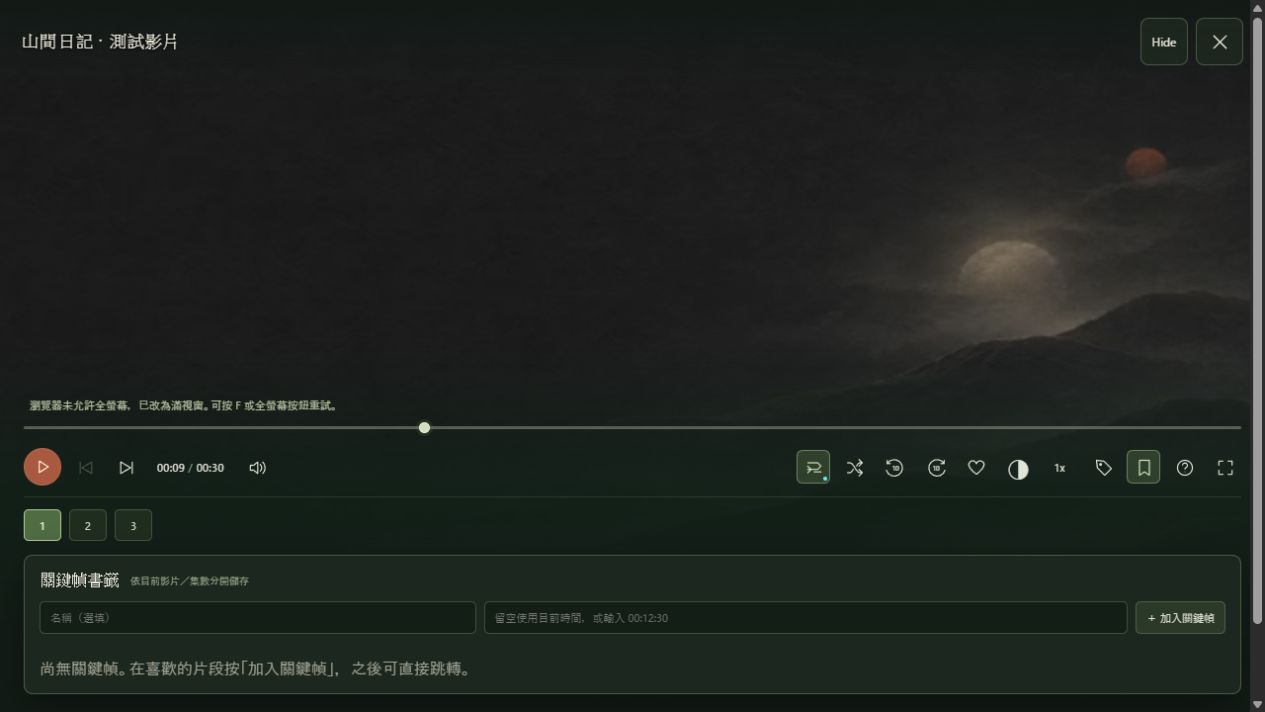
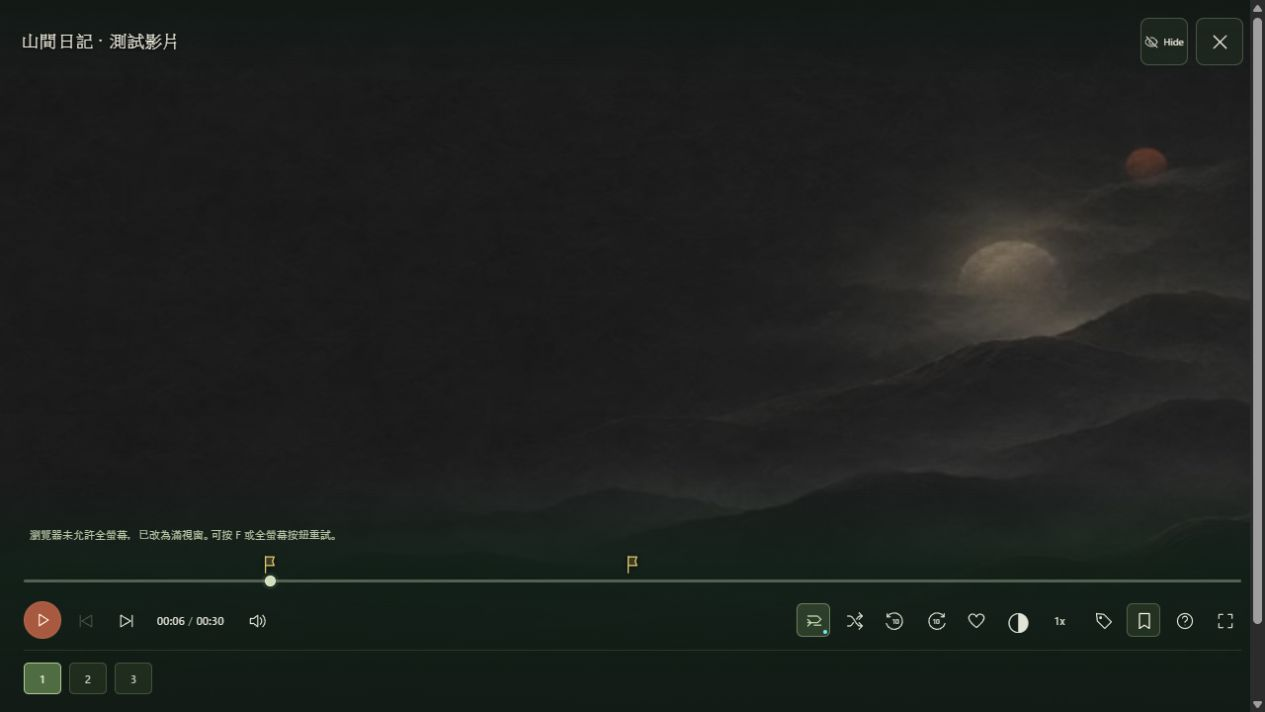
feat: add direct timeline flags and paused deletion v1.5.0

diff --git a/index.html b/index.html
@@ -40,12 +40,12 @@ body.boss-mode img,body.boss-mode video,body.boss-mode #timelinePreview,body.bos
 .channelFooter{display:flex;justify-content:flex-end;margin-top:18px}.channelToggle{width:28px;height:28px;padding:5px;background:transparent;border:1px solid transparent;color:#697269;opacity:.65}.channelToggle:hover{opacity:1;border-color:#59675a;background:#263128}.channelToggle svg{width:16px;height:16px;fill:none;stroke:currentColor;stroke-width:1.6;stroke-linecap:round;stroke-linejoin:round}.channelToggle.active{color:#89c9ad;opacity:1;background:#20372c;border-color:#547864}
 </style><link rel="stylesheet" href="/assets/studio-layout.css">
 <header><div><div class="brand"><img src="/assets/camellia-emblem.png" alt="">映室 <span>LOCAL CINEMA</span></div><div class="sub">2026 · by BitingBox Studio</div></div><div class="headerActions"><button id="sourceGroupToggle" class="sourceGroupToggle" aria-haspopup="dialog" title="選擇片源群組"><img id="sourceGroupAvatar" alt=""><span id="sourceGroupName">預設片源</span></button><button id="shortToggle" class="shortToggle" aria-pressed="false" title="開啟Short直式看片面板" aria-label="Short"></button><button id="homeHide" title="暫停、靜音並隱藏影片與標題">Hide</button></div></header>
-<aside id="studioSidebar" class="studioSidebar"><nav aria-label="主要導覽"><button id="homeNav" class="nav-active"></button><div id="libraryNavSlots"></div><button id="shortNav"></button></nav><div class="sidebarBottom"><button id="groupNav"></button><button id="guideNav"></button><div class="sidebarCredit">PRIVATE LIBRARY<span>Local streaming · v1.4.1</span></div></div></aside>
+<aside id="studioSidebar" class="studioSidebar"><nav aria-label="主要導覽"><button id="homeNav" class="nav-active"></button><div id="libraryNavSlots"></div><button id="shortNav"></button></nav><div class="sidebarBottom"><button id="groupNav"></button><button id="guideNav"></button><div class="sidebarCredit">PRIVATE LIBRARY<span>Local streaming · v1.5.0</span></div></div></aside>
 <section id="hero"><img id="heroImg" alt="" draggable="false"><div class="heroText"><div class="eyebrow">PICK SOMETHING UNEXPECTED · <span id="bannerIntervalLabel">每 5 秒推薦</span></div><h1 id="heroTitle">你的私人影院</h1><div class="muted" id="heroMeta">請從後台加入影片來源，並啟動掃描。</div><div class="heroButtons"><button class="primary" id="heroPlay">▶ 立即播放</button><button id="heroPrevious" aria-label="上一張Banner">← 上一張</button><button id="heroNext" aria-label="下一張Banner">下一張 →</button></div><div class="bannerIntervals"><span>自動換片</span><div id="bannerIntervals" class="intervalChoices" aria-label="Banner自動換片間隔"></div></div></div></section>
 <main id="libraryMain"><div class="filters collectionActions"><button class="primary" id="allView">全部影片</button><button id="favView">♥ 我的最愛</button><button id="historyView">◷ 觀看記錄</button><button id="randomAll">⚄ 隨機播放</button><button id="randomFav">⚄ 隨機最愛</button><button id="randomTag">⚄ 依標籤抽片</button></div><div class="sectionTop"><h2><span id="viewTitle">所有影片</span> <small class="muted" id="count"></small></h2><span class="muted" id="scanState"></span></div><div class="filters catalogFilters"><input id="search" type="search" placeholder="搜尋影片名稱或標籤…" aria-label="搜尋"><details id="tagFilterDetails"><summary>標籤篩選 <span id="tagFilterSummary">全部</span></summary><div class="tagFilterPanel"><fieldset><legend>包含標籤（符合任一）</legend><div id="includeTagChoices" class="filterTagChoices"></div><button id="clearIncludeTags" type="button">清空包含</button></fieldset><fieldset class="excludeField"><legend>排除標籤（含任一即排除）</legend><div id="excludeTagChoices" class="filterTagChoices"></div><button id="clearExcludeTags" type="button">清空排除</button></fieldset><p>可複選。未選包含表示不限制；同時選入兩組時，排除條件優先。</p></div></details><button id="newTag">＋ 自訂分類</button><label>更新自 <input id="from" type="date"></label><label>至 <input id="to" type="date"></label><select id="sort" aria-label="排序"><option value="random" selected>亂數排序（不重複）</option><option value="watched">最近觀看</option><option value="new">更新：新到舊</option><option value="old">更新：舊到新</option><option value="az">名稱：A → Z</option><option value="za">名稱：Z → A</option></select><button id="shuffle">重新洗牌</button><label>每頁 <select id="pageSize" aria-label="每頁筆數"><option>12</option><option selected>24</option><option>48</option><option>96</option></select> 部</label><button id="clear">清除篩選</button></div><nav class="pagination" id="paginationTop" aria-label="影片分頁（上方）"></nav><div id="grid" class="grid"></div><nav class="pagination" id="paginationBottom" aria-label="影片分頁（下方）"></nav></main>
-<dialog id="modal"><div id="playerStage"><video id="player" tabindex="0" disablepictureinpicture playsinline preload="metadata" draggable="false"></video><div class="privacy-glass" aria-hidden="true"></div><div id="scrubHUD" hidden></div><aside id="episodePreview" hidden aria-label="選集影片預覽"><video id="episodePreviewVideo" muted playsinline loop preload="metadata"></video><div class="privacy-glass previewGlass" aria-hidden="true"></div><h4 id="episodePreviewTitle"></h4><span id="episodePreviewStatus" role="status"></span></aside><div id="playerOverlay"><div id="playerHead"><h2 id="playerTitle"></h2><div class="headActions"><button id="bossButton" title="暫停、靜音並隱藏影片與標題">Hide</button><button id="close" aria-label="關閉播放器">✕</button></div></div><div class="playerBottom"><div id="fullscreenStatus" role="status" aria-live="polite"></div><div id="error" role="status"></div><div class="compatTools"><button id="convertPlayback" hidden>建立相容播放檔</button></div><div id="playbackModeNotice" role="status" aria-live="polite"></div><div class="seekRow"><div id="timelinePreview" hidden><video id="timelinePreviewVideo" muted playsinline preload="metadata"></video><div class="privacy-glass previewGlass" aria-hidden="true"></div><span id="timelinePreviewTime"></span></div><input id="playerSeek" aria-label="播放時間軸" type="range" min="0" max="100" step="0.01" value="0" disabled></div><div class="playerTools"><div class="controlsLeft"><button id="playPause" aria-label="播放／暫停" title="播放／暫停（空白鍵）"></button><button id="prevEpisode" aria-label="上一集" title="上一集"></button><button id="nextEpisode" aria-label="下一集" title="下一集"></button><span class="playbackClock"><span id="currentTime">00:00</span><span class="clockDivider"> / </span><span id="durationTime">00:00</span></span><div class="controlMenu volumeMenu"><button id="muteToggle" aria-label="靜音切換" title="音量／靜音（M）"></button><div class="controlPopup volumePopup"><output id="volumeValue">100</output><input id="volume" aria-label="音量" type="range" min="0" max="1" step=".01" value="1"></div></div></div><div class="controlsRight"><button id="autoSeries" aria-pressed="false" aria-label="自動續集" title="自動續集"></button><button id="autoRandom" aria-pressed="false" aria-label="隨機片單" title="隨機片單"></button><button id="back" title="倒轉10秒" aria-label="倒轉10秒"></button><button id="forward" title="快進10秒" aria-label="快進10秒"></button><button id="favorite" title="加入我的最愛" aria-label="加入我的最愛"></button><select id="episode" aria-label="選集" hidden></select><button id="brightnessToggle" title="亮度：一般" aria-label="切換亮度">◑</button><div class="controlMenu speedMenu"><button id="speedToggle" aria-haspopup="menu" aria-label="播放倍速" title="播放倍速">1x</button><div class="controlPopup speedPopup" id="speedChoices" role="menu" aria-label="倍速選單"></div></div><select id="speed" hidden aria-label="播放倍速"><option>0.25</option><option>0.5</option><option>0.75</option><option selected>1</option><option>1.25</option><option>1.5</option><option>1.75</option><option>2</option><option>3</option><option>4</option></select><button id="quickTags" aria-label="快速設定Tag" title="快速設定Tag"></button><button id="keyframeToggle" aria-expanded="false" aria-controls="keyframePanel" aria-label="關鍵幀" title="關鍵幀"></button><button id="helpToggle" aria-expanded="false" aria-controls="playerHelp" aria-label="操作說明" title="操作說明"></button><button id="fullscreen" aria-label="全螢幕" title="全螢幕（F）"></button></div></div><nav id="episodeButtons" aria-label="快速選集"></nav><section hidden id="keyframePanel" aria-label="關鍵幀書籤"><div class="keyframeHeader"><h3>關鍵幀書籤</h3><span class="muted">依目前影片／集數分開儲存</span></div><div class="keyframeForm"><input id="keyframeName" aria-label="關鍵幀名稱" placeholder="名稱（選填）" maxlength="120"><input id="keyframeTime" aria-label="關鍵幀時間" placeholder="留空使用目前時間，或輸入 00:12:30"><button id="addKeyframe">＋ 加入關鍵幀</button></div><div id="keyframeStatus" role="status" aria-live="polite"></div><div id="keyframeRail" aria-label="關鍵幀時間軸"></div><div id="keyframeList"></div></section><section class="help" id="playerHelp" aria-label="播放器操作說明" hidden><div class="helpHeading"><h3>鍵盤快捷鍵</h3><button id="closeHelp" aria-label="收起操作說明">收起</button></div><div class="shortcutColumns"><div><div class="shortcutRow"><span>音量調整</span><span><kbd>↑</kbd><i>/</i><kbd>↓</kbd></span></div><div class="shortcutRow"><span>倒轉／快進 10 秒</span><span><kbd>←</kbd><i>/</i><kbd>→</kbd></span></div><div class="shortcutRow"><span>倒轉／快進（替代鍵）</span><span><kbd>J</kbd><i>/</i><kbd>L</kbd></span></div><div class="shortcutRow"><span>靜音／取消靜音</span><span><kbd>M</kbd></span></div></div><div><div class="shortcutRow"><span>暫停／播放</span><span><kbd>Space</kbd><i>/</i><kbd>K</kbd></span></div><div class="shortcutRow"><span>降低／提高倍速</span><span><kbd>[</kbd><i>/</i><kbd>]</kbd></span></div><div class="shortcutRow"><span>三段亮度切換</span><span><kbd>−</kbd><i>/</i><kbd>＋</kbd></span></div><div class="shortcutRow"><span>全螢幕／退出</span><span><kbd>F</kbd></span></div></div></div><h4>滑鼠與觸控</h4><div class="gestureGrid"><div><span>調整進度</span><b>按住影片左右拖曳</b></div><div><span>精細調整進度</span><b><kbd>Shift</kbd> ＋ 拖曳</b></div><div><span>調整音量</span><b>滑鼠滾輪</b></div><div><span>倒轉／快進 10 秒</span><b><kbd>Shift</kbd> ＋ 滾輪</b></div><div><span>影片中央雙擊</span><b>切換全螢幕</b></div><div><span>影片左右側雙擊</span><b>倒轉／快進 10 秒</b></div><div><span>時間軸／選集預覽</span><b>停留 0.5 秒</b></div><div><span>手機顯示控件</span><b>點擊影片畫面</b></div></div><p class="helpNote"><kbd>Esc</kbd> 可離開全螢幕／滿視窗，再按可關閉播放器。輸入欄位與選單操作時，優先保留其原有按鍵功能。</p></section></div></div></div></dialog><dialog id="tagDialog"><div class="tagDialogHead"><h3>快速設定 Tag</h3><button id="closeTags">完成</button></div><p id="tagTargetTitle" class="muted"></p><p class="muted">點亮即套用，再點一次移除；自動儲存。</p><div id="tagChoices"></div><div class="newTagRow"><input id="quickTagName" aria-label="新增標籤名稱" placeholder="新增標籤名稱" maxlength="60"><button id="addQuickTag">新增並套用</button></div><div id="tagSaveStatus" role="status"></div></dialog><section id="shortPanel" hidden aria-label="Short直式看片面板"><div class="shortHeader"><div><strong>Short</strong><span id="shortSummary"></span></div><div id="shortIntervals" class="intervalChoices" aria-label="Short自動換片間隔"></div><div class="shortHeaderActions"><button id="shortAudio" title="取消靜音" aria-label="Short取消靜音"></button><button id="shortHide">Hide</button><button id="shortClose" aria-label="關閉Short" title="返回片庫"></button></div></div><div id="shortScroller" tabindex="0" aria-label="上下捲動換片"></div><div class="shortNavigation"><button id="shortPrevious" aria-label="上一支Short" title="上一支">↑</button><button id="shortNext" aria-label="下一支Short" title="下一支">↓</button></div></section><dialog id="sourceGroupDialog"><div class="sourceGroupHeading"><h2>選擇片源群組</h2><button id="closeSourceGroups">完成</button></div><p class="muted">切換最上層片源範圍</p><div id="sourceGroupChoices"></div><div class="channelFooter"><button id="channelVisibilityToggle" class="channelToggle" aria-label="解鎖隱藏頻道" title="解鎖隱藏頻道" aria-pressed="false"></button></div></dialog><section id="bossScreen" hidden><div class="bossCard"><span class="eyebrow">WORKSPACE</span><h1>工作台</h1><p>暫無待辦事項。</p><button id="leaveBoss">返回</button></div></section><dialog id="studioGuide" class="studioGuide"><div class="sourceGroupHeading"><h2>映室使用說明</h2><button id="closeStudioGuide">完成</button></div><p>在後台建立片源群組並加入目錄，啟動後即可由本機或區網觀看。</p><ol><li>點右上角頭像切換片源；右下角鎖頭可解鎖隱藏頻道。</li><li>使用搜尋、日期與包含／排除標籤篩選片單。</li><li>點影片播放；按住畫面拖曳可調整時間，F 切換全螢幕。</li><li>Short 依目前篩選捲動播放，可設定自動換片間隔。</li></ol><p class="muted">片源與轉檔請在 Windows 後台管理。</p></dialog><div id="toast"></div>
+<dialog id="modal"><div id="playerStage"><video id="player" tabindex="0" disablepictureinpicture playsinline preload="metadata" draggable="false"></video><div class="privacy-glass" aria-hidden="true"></div><div id="scrubHUD" hidden></div><aside id="episodePreview" hidden aria-label="選集影片預覽"><video id="episodePreviewVideo" muted playsinline loop preload="metadata"></video><div class="privacy-glass previewGlass" aria-hidden="true"></div><h4 id="episodePreviewTitle"></h4><span id="episodePreviewStatus" role="status"></span></aside><div id="playerOverlay"><div id="playerHead"><h2 id="playerTitle"></h2><div class="headActions"><button id="bossButton" title="暫停、靜音並隱藏影片與標題">Hide</button><button id="close" aria-label="關閉播放器">✕</button></div></div><div class="playerBottom"><div id="fullscreenStatus" role="status" aria-live="polite"></div><div id="error" role="status"></div><div class="compatTools"><button id="convertPlayback" hidden>建立相容播放檔</button></div><div id="playbackModeNotice" role="status" aria-live="polite"></div><div class="seekRow"><div id="keyframeRail" aria-label="時間軸關鍵幀旗標"></div><div id="timelinePreview" hidden><video id="timelinePreviewVideo" muted playsinline preload="metadata"></video><div class="privacy-glass previewGlass" aria-hidden="true"></div><span id="timelinePreviewTime"></span></div><input id="playerSeek" aria-label="播放時間軸" type="range" min="0" max="100" step="0.01" value="0" disabled></div><div class="playerTools"><div class="controlsLeft"><button id="playPause" aria-label="播放／暫停" title="播放／暫停（空白鍵）"></button><button id="prevEpisode" aria-label="上一集" title="上一集"></button><button id="nextEpisode" aria-label="下一集" title="下一集"></button><span class="playbackClock"><span id="currentTime">00:00</span><span class="clockDivider"> / </span><span id="durationTime">00:00</span></span><div class="controlMenu volumeMenu"><button id="muteToggle" aria-label="靜音切換" title="音量／靜音（M）"></button><div class="controlPopup volumePopup"><output id="volumeValue">100</output><input id="volume" aria-label="音量" type="range" min="0" max="1" step=".01" value="1"></div></div></div><div class="controlsRight"><button id="autoSeries" aria-pressed="false" aria-label="自動續集" title="自動續集"></button><button id="autoRandom" aria-pressed="false" aria-label="隨機片單" title="隨機片單"></button><button id="back" title="倒轉10秒" aria-label="倒轉10秒"></button><button id="forward" title="快進10秒" aria-label="快進10秒"></button><button id="favorite" title="加入我的最愛" aria-label="加入我的最愛"></button><select id="episode" aria-label="選集" hidden></select><button id="brightnessToggle" title="亮度：一般" aria-label="切換亮度">◑</button><div class="controlMenu speedMenu"><button id="speedToggle" aria-haspopup="menu" aria-label="播放倍速" title="播放倍速">1x</button><div class="controlPopup speedPopup" id="speedChoices" role="menu" aria-label="倍速選單"></div></div><select id="speed" hidden aria-label="播放倍速"><option>0.25</option><option>0.5</option><option>0.75</option><option selected>1</option><option>1.25</option><option>1.5</option><option>1.75</option><option>2</option><option>3</option><option>4</option></select><button id="quickTags" aria-label="快速設定Tag" title="快速設定Tag"></button><button id="keyframeToggle" aria-label="加入關鍵幀旗標" title="在目前時間加入旗標"></button><button id="helpToggle" aria-expanded="false" aria-controls="playerHelp" aria-label="操作說明" title="操作說明"></button><button id="fullscreen" aria-label="全螢幕" title="全螢幕（F）"></button></div></div><nav id="episodeButtons" aria-label="快速選集"></nav><section class="help" id="playerHelp" aria-label="播放器操作說明" hidden><div class="helpHeading"><h3>鍵盤快捷鍵</h3><button id="closeHelp" aria-label="收起操作說明">收起</button></div><div class="shortcutColumns"><div><div class="shortcutRow"><span>音量調整</span><span><kbd>↑</kbd><i>/</i><kbd>↓</kbd></span></div><div class="shortcutRow"><span>倒轉／快進 10 秒</span><span><kbd>←</kbd><i>/</i><kbd>→</kbd></span></div><div class="shortcutRow"><span>倒轉／快進（替代鍵）</span><span><kbd>J</kbd><i>/</i><kbd>L</kbd></span></div><div class="shortcutRow"><span>靜音／取消靜音</span><span><kbd>M</kbd></span></div></div><div><div class="shortcutRow"><span>暫停／播放</span><span><kbd>Space</kbd><i>/</i><kbd>K</kbd></span></div><div class="shortcutRow"><span>降低／提高倍速</span><span><kbd>[</kbd><i>/</i><kbd>]</kbd></span></div><div class="shortcutRow"><span>三段亮度切換</span><span><kbd>−</kbd><i>/</i><kbd>＋</kbd></span></div><div class="shortcutRow"><span>全螢幕／退出</span><span><kbd>F</kbd></span></div></div></div><h4>滑鼠與觸控</h4><div class="gestureGrid"><div><span>調整進度</span><b>按住影片左右拖曳</b></div><div><span>精細調整進度</span><b><kbd>Shift</kbd> ＋ 拖曳</b></div><div><span>調整音量</span><b>滑鼠滾輪</b></div><div><span>倒轉／快進 10 秒</span><b><kbd>Shift</kbd> ＋ 滾輪</b></div><div><span>影片中央雙擊</span><b>切換全螢幕</b></div><div><span>影片左右側雙擊</span><b>倒轉／快進 10 秒</b></div><div><span>時間軸／選集預覽</span><b>停留 0.5 秒</b></div><div><span>手機顯示控件</span><b>點擊影片畫面</b></div></div><p class="helpNote"><kbd>Esc</kbd> 可離開全螢幕／滿視窗，再按可關閉播放器。輸入欄位與選單操作時，優先保留其原有按鍵功能。</p></section></div></div></div></dialog><dialog id="tagDialog"><div class="tagDialogHead"><h3>快速設定 Tag</h3><button id="closeTags">完成</button></div><p id="tagTargetTitle" class="muted"></p><p class="muted">點亮即套用，再點一次移除；自動儲存。</p><div id="tagChoices"></div><div class="newTagRow"><input id="quickTagName" aria-label="新增標籤名稱" placeholder="新增標籤名稱" maxlength="60"><button id="addQuickTag">新增並套用</button></div><div id="tagSaveStatus" role="status"></div></dialog><section id="shortPanel" hidden aria-label="Short直式看片面板"><div class="shortHeader"><div><strong>Short</strong><span id="shortSummary"></span></div><div id="shortIntervals" class="intervalChoices" aria-label="Short自動換片間隔"></div><div class="shortHeaderActions"><button id="shortAudio" title="取消靜音" aria-label="Short取消靜音"></button><button id="shortHide">Hide</button><button id="shortClose" aria-label="關閉Short" title="返回片庫"></button></div></div><div id="shortScroller" tabindex="0" aria-label="上下捲動換片"></div><div class="shortNavigation"><button id="shortPrevious" aria-label="上一支Short" title="上一支">↑</button><button id="shortNext" aria-label="下一支Short" title="下一支">↓</button></div></section><dialog id="sourceGroupDialog"><div class="sourceGroupHeading"><h2>選擇片源群組</h2><button id="closeSourceGroups">完成</button></div><p class="muted">切換最上層片源範圍</p><div id="sourceGroupChoices"></div><div class="channelFooter"><button id="channelVisibilityToggle" class="channelToggle" aria-label="解鎖隱藏頻道" title="解鎖隱藏頻道" aria-pressed="false"></button></div></dialog><section id="bossScreen" hidden><div class="bossCard"><span class="eyebrow">WORKSPACE</span><h1>工作台</h1><p>暫無待辦事項。</p><button id="leaveBoss">返回</button></div></section><dialog id="studioGuide" class="studioGuide"><div class="sourceGroupHeading"><h2>映室使用說明</h2><button id="closeStudioGuide">完成</button></div><p>在後台建立片源群組並加入目錄，啟動後即可由本機或區網觀看。</p><ol><li>點右上角頭像切換片源；右下角鎖頭可解鎖隱藏頻道。</li><li>使用搜尋、日期與包含／排除標籤篩選片單。</li><li>點影片播放；按住畫面拖曳可調整時間，F 切換全螢幕。</li><li>Short 依目前篩選捲動播放，可設定自動換片間隔。</li></ol><p class="muted">片源與轉檔請在 Windows 後台管理。</p></dialog><div id="toast"></div>
 <dialog id="channelUnlockDialog" style="max-width:420px;padding:24px"><form id="channelUnlockForm"><h2>解鎖隱藏頻道</h2><label>顯示頻道密碼<input id="channelPassword" type="password" required maxlength="128" autocomplete="off" style="display:block;width:100%;margin:14px 0"></label><p id="channelUnlockStatus" role="status"></p><button type="submit">解鎖</button> <button id="cancelChannelUnlock" type="button">取消</button></form></dialog>
-<footer class="studio-credit"><img src="/assets/bitingbox-studio.png" alt="BitingBox Studio 工作室Logo" width="190"><div>Created by Ryan Hsu. 2026 © Copyright · v1.4.1</div></footer>
+<footer class="studio-credit"><img src="/assets/bitingbox-studio.png" alt="BitingBox Studio 工作室Logo" width="190"><div>Created by Ryan Hsu. 2026 © Copyright · v1.5.0</div></footer>
 <script src="/assets/catalog-pagination.js"></script><script src="/assets/playback-modes.js"></script><script src="/assets/short-queue.js"></script><script src="/assets/interaction-controls.js"></script><script>
 const pager=new CatalogPager(24);let wasScanning=false,coverRevision=-1,view='all',watchSession='',watchStarted=false,recommending=false;const $=id=>document.getElementById(id), player=$('player'), modal=$('modal');let sourceGroups=[],sourceGroupsSignature='',currentGroupId=readSourceGroup();let groupCategories={},groupTags={};let library=[],categories=[],token='',hero=null,current=null,previews=new Set(),busy=false;const afterPlayback=new PlaybackModes(readPlaybackMode());let playbackNoticeTimer=null;
 const date=stamp=>new Date(stamp*1000).toLocaleDateString('zh-TW');
@@ -111,11 +111,13 @@ visual.onmouseenter=()=>{if(bossActive)return;timer=setTimeout(()=>{if(bossActiv
 let keyframes=[],keyframeLoad=0,playRequest=0,playerForced=false;
 function formatKeyframeTime(seconds){const total=Math.floor(seconds);return [Math.floor(total/3600),Math.floor(total/60)%60,total%60].map(n=>String(n).padStart(2,'0')).join(':')}
 function parseKeyframeTime(value){const parts=value.trim().split(':');if(parts.length>3||parts.some(x=>!/^\d+(?:\.\d+)?$/.test(x)))return NaN;const numbers=parts.map(Number);if(numbers.some(x=>!Number.isFinite(x)))return NaN;if(parts.length>1&&numbers.at(-1)>=60||parts.length===3&&numbers[1]>=60)return NaN;return numbers.reduce((total,n)=>total*60+n,0)}
-async function loadKeyframes(){const request=++keyframeLoad,episode=player.dataset.episode;keyframes=[];$('keyframeName').value='';$('keyframeTime').value='';$('keyframeStatus').textContent='正在載入關鍵幀…';renderKeyframes();try{const data=await post('/api/keyframes',{id:current.id,episode,action:'list'});if(request!==keyframeLoad||player.dataset.episode!==episode)return;keyframes=data.keyframes;$('keyframeStatus').textContent='';renderKeyframes()}catch{if(request===keyframeLoad)$('keyframeStatus').textContent='關鍵幀載入失敗，請確認後台連線。'}}
-function jumpKeyframe(frame){if(!Number.isFinite(player.duration)||player.readyState<1){$('keyframeStatus').textContent='請等待影片載入完成。';return}if(frame.position>=player.duration){$('keyframeStatus').textContent='此關鍵幀超過目前影片長度，請重新設定。';return}player.currentTime=frame.position;player.play().catch(()=>{});player.focus();$('keyframeStatus').textContent='從 '+formatKeyframeTime(frame.position)+' 開始播放'}
-async function changeKeyframe(action,frame,title){const episode=player.dataset.episode;try{const data=await post('/api/keyframes',{id:current.id,episode,action,bookmark:frame.id,title});if(player.dataset.episode!==episode)return;keyframes=data.keyframes;renderKeyframes();$('keyframeStatus').textContent=action==='delete'?'已刪除關鍵幀':'已更新名稱'}catch{$('keyframeStatus').textContent='儲存失敗，請確認後台連線。'}}
-function renderKeyframes(){const list=$('keyframeList'),rail=$('keyframeRail');list.replaceChildren();rail.replaceChildren();if(!keyframes.length){const empty=document.createElement('span');empty.className='muted';empty.textContent='尚無關鍵幀。在喜歡的片段按「加入關鍵幀」，之後可直接跳轉。';list.append(empty);return}for(const frame of keyframes){const row=document.createElement('div');row.className='keyframeRow';const jump=document.createElement('button');jump.className='keyframeJump';jump.textContent=formatKeyframeTime(frame.position)+' · '+frame.title;jump.onclick=()=>jumpKeyframe(frame);const rename=document.createElement('button');rename.textContent='改名';rename.onclick=()=>{const title=prompt('關鍵幀名稱',frame.title);if(title!==null)changeKeyframe('rename',frame,title)};const remove=document.createElement('button');remove.textContent='刪除';remove.onclick=()=>changeKeyframe('delete',frame);row.append(jump,rename,remove);list.append(row);if(Number.isFinite(player.duration)&&player.duration>0&&frame.position<player.duration){const tick=document.createElement('button');tick.style.left=(frame.position/player.duration*100)+'%';tick.title=formatKeyframeTime(frame.position)+' · '+frame.title;tick.setAttribute('aria-label','跳至 '+tick.title);tick.onclick=()=>jumpKeyframe(frame);rail.append(tick)}}}
-$('addKeyframe').onclick=async()=>{if(!current||!Number.isFinite(player.duration)||player.readyState<1){$('keyframeStatus').textContent='請先載入可播放的影片。';return}const entered=$('keyframeTime').value.trim(),position=entered?parseKeyframeTime(entered):player.currentTime;if(!Number.isFinite(position)||position<0||position>=player.duration){$('keyframeStatus').textContent='請輸入影片範圍內的時間，例如 00:12:30 或秒數。';return}const episode=player.dataset.episode,id=current.id,title=$('keyframeName').value;$('addKeyframe').disabled=true;try{const data=await post('/api/keyframes',{id,episode,action:'add',position,title});if(player.dataset.episode===episode&&current.id===id){keyframes=data.keyframes;renderKeyframes();$('keyframeName').value='';$('keyframeTime').value='';$('keyframeStatus').textContent='已儲存 '+formatKeyframeTime(position)+' 的關鍵幀'}}catch{$('keyframeStatus').textContent='關鍵幀儲存失敗，請確認後台連線。'}finally{$('addKeyframe').disabled=false}};
+let keyframeSaving=false;
+async function loadKeyframes(){const request=++keyframeLoad,episode=player.dataset.episode,id=current.id;keyframes=[];renderKeyframes();try{const data=await post('/api/keyframes',{id,episode,action:'list'});if(request!==keyframeLoad||player.dataset.episode!==episode||current?.id!==id)return;keyframes=data.keyframes;renderKeyframes()}catch{if(request===keyframeLoad)toast('旗標載入失敗，請確認後台連線。')}}
+async function saveKeyframe(action,frame){if(keyframeSaving||!current)return;const episode=player.dataset.episode,id=current.id,position=player.currentTime;keyframeSaving=true;$('keyframeToggle').disabled=true;try{const data=await post('/api/keyframes',{id,episode,action,...(action==='add'?{position,title:''}:{bookmark:frame.id})});if(player.dataset.episode!==episode||current?.id!==id)return;keyframes=data.keyframes;renderKeyframes();toast(action==='add'?'已加入 '+formatKeyframeTime(position)+' 旗標':'已刪除旗標')}catch{toast('旗標儲存失敗，請確認後台連線。')}finally{keyframeSaving=false;$('keyframeToggle').disabled=false;showControls()}}
+function activateKeyframe(frame){if(keyframeSaving||!Number.isFinite(player.duration)||player.readyState<1||frame.position>=player.duration)return;if(player.paused&&!player.seeking&&Math.abs(player.currentTime-frame.position)<=.15){saveKeyframe('delete',frame);return}player.currentTime=frame.position;player.focus();showControls()}
+function renderKeyframes(){const rail=$('keyframeRail');rail.replaceChildren();if(!Number.isFinite(player.duration)||player.duration<=0)return;for(const frame of keyframes){if(frame.position>=player.duration)continue;const flag=document.createElement('button');flag.className='timelineFlag';flag.style.left=(frame.position/player.duration*100)+'%';flag.title=formatKeyframeTime(frame.position)+' · 點擊跳轉；暫停並停在此處再點可刪除';flag.setAttribute('aria-label','旗標 '+formatKeyframeTime(frame.position));flag.innerHTML='<svg viewBox="0 0 16 24" aria-hidden="true"><path d="M3 22V2m0 1h10l-2 5 2 5H3"/></svg>';flag.onclick=event=>{event.stopPropagation();activateKeyframe(frame)};flag.onpointerenter=()=>{hideTimelinePreview();showControls()};rail.append(flag)}}
+function addCurrentKeyframe(){if(!current||player.readyState<1||!Number.isFinite(player.duration)||player.currentTime>=player.duration){toast('請先載入可播放的影片');return}if(keyframes.some(frame=>Math.abs(frame.position-player.currentTime)<=.15)){toast('目前位置已有旗標');return}saveKeyframe('add')}
+
 
 
 
@@ -141,7 +143,7 @@ function showControls(){overlay.classList.remove('controls-hidden');stage.classL
 function togglePlay(){if(player.paused)player.play().catch(()=>{});else player.pause();showControls();updatePlayerUI()}
 for(const event of ['timeupdate','loadedmetadata','durationchange','volumechange','play','pause','ended','emptied'])player.addEventListener(event,()=>{updatePlayerUI();if(['pause','ended','loadedmetadata'].includes(event))showControls();if(event==='play'){showControls()}});
 stage.addEventListener('pointerenter',showControls);stage.addEventListener('pointermove',showControls);stage.addEventListener('pointerleave',()=>{clearTimeout(controlsTimer);controlsTimer=setTimeout(hideControls,450)});overlay.addEventListener('focusin',showControls);overlay.addEventListener('pointerdown',showControls);
-$('playPause').onclick=()=>{togglePlay();player.focus()};$('muteToggle').onclick=()=>{player.muted=!player.muted;updatePlayerUI();player.focus()};$('keyframeToggle').onclick=()=>{const panel=$('keyframePanel');panel.hidden=!panel.hidden;$('keyframeToggle').setAttribute('aria-expanded',String(!panel.hidden));showControls()};$('closeHelp').onclick=()=>{$('playerHelp').hidden=true;$('helpToggle').setAttribute('aria-expanded','false');showControls();player.focus()};$('helpToggle').onclick=()=>{const help=$('playerHelp');help.hidden=!help.hidden;$('helpToggle').setAttribute('aria-expanded',String(!help.hidden));showControls();player.focus()};
+$('playPause').onclick=()=>{togglePlay();player.focus()};$('muteToggle').onclick=()=>{player.muted=!player.muted;updatePlayerUI();player.focus()};$('keyframeToggle').onclick=addCurrentKeyframe;$('closeHelp').onclick=()=>{$('playerHelp').hidden=true;$('helpToggle').setAttribute('aria-expanded','false');showControls();player.focus()};$('helpToggle').onclick=()=>{const help=$('playerHelp');help.hidden=!help.hidden;$('helpToggle').setAttribute('aria-expanded',String(!help.hidden));showControls();player.focus()};
 $('playerSeek').onpointerdown=()=>{timelineDragging=true};$('playerSeek').oninput=()=>{if(Number.isFinite(player.duration)){player.currentTime=Number($('playerSeek').value);$('currentTime').textContent=clockTime(player.currentTime)}showControls()};for(const event of ['pointerup','pointercancel','change','blur'])$('playerSeek').addEventListener(event,()=>{timelineDragging=false;updatePlayerUI();showControls()});
 player.addEventListener('dragstart',event=>event.preventDefault());
 player.addEventListener('pointerdown',event=>{if(event.button!==0||!Number.isFinite(player.duration)||!player.duration)return;showControls();dragState={id:event.pointerId,x:event.clientX,y:event.clientY,time:player.currentTime,playing:!player.paused,dragging:false};player.setPointerCapture(event.pointerId)});

diff --git a/assets/studio-layout.css b/assets/studio-layout.css
@@ -39,3 +39,5 @@ main{margin-left:174px;padding:8px 20px 28px}.sectionTop{border:0;margin:0;paddi
 @media(max-width:1000px){.playerBottom{padding:40px 16px 12px}.controlsLeft,.controlsRight{gap:3px}.playerTools{gap:8px}.playerTools button{width:30px;height:32px;padding:5px}.playbackClock{margin:0 4px;font-size:10px}}
 @media(max-width:650px){#playerHead{padding:12px}#playerTitle{font-size:14px}#playerHead #close,#playerHead #bossButton{width:44px;height:44px;min-width:44px}.playerBottom{padding:35px 12px max(12px,env(safe-area-inset-bottom));max-height:75%}.playerTools{flex-wrap:wrap;gap:8px}.controlsLeft{width:100%;justify-content:flex-start;gap:7px}.controlsRight{width:100%;margin:0;justify-content:space-between;gap:2px;flex-wrap:wrap}.playerTools button{width:30px;height:34px;min-height:34px}.playerTools #speedToggle{width:34px}.playerTools .playerIcon{width:19px;height:19px}.playbackClock{font-size:11px;margin-right:auto}.playerBottom #playerHelp{top:72px;right:12px;width:calc(100% - 24px);padding:15px;max-height:calc(100% - 230px)}.playerBottom #keyframePanel{padding:12px;max-height:28vh}.keyframeForm input{min-width:90px}.keyframeHeader span{display:none}#tagDialog{padding:18px}#episodeButtons{padding-top:10px}.controlPopup{bottom:calc(100% + 8px)}}
 @media(prefers-reduced-motion:reduce){#playerOverlay,#playerHead,.playerBottom{transition:none}}
+/* Direct timeline flags; keep seek dragging and marker clicks separate. */
+.seekRow{margin-top:24px}#keyframeRail{position:absolute;inset:auto 5px 50% 5px;height:30px;margin:0;background:none;pointer-events:none;z-index:3}#keyframeRail .timelineFlag{position:absolute;top:0;transform:translateX(-50%);width:24px;height:30px;min-height:30px;padding:2px 5px;border:0;border-radius:3px;background:transparent;color:#e8cb70;pointer-events:auto;cursor:pointer;touch-action:manipulation}#keyframeRail .timelineFlag svg{width:14px;height:24px;fill:#e8cb7033;stroke:currentColor;stroke-width:1.5;stroke-linejoin:round;filter:drop-shadow(0 1px 3px #000)}#keyframeRail .timelineFlag:hover,#keyframeRail .timelineFlag:focus-visible{color:#ffe49a;background:#cfb15122;outline:1px solid #e8cb7088}#playerHead #bossButton{display:flex;align-items:center;justify-content:center;gap:4px;font-size:10px}#playerHead #bossButton .playerIcon{width:15px;height:15px;stroke-width:1.4}

diff --git a/assets/studio-navigation.js b/assets/studio-navigation.js
@@ -42,6 +42,7 @@
     $('homeHide').innerHTML='<svg class="playerIcon" viewBox="0 0 24 24" aria-hidden="true"><path d="M3 3l18 18M10 5c5-1 9 4 11 7l-3 4M6 6c-2 2-4 4-5 6 4 6 9 9 16 6M9 9a4 4 0 0 0 6 6"/></svg><span>Hide</span>';
     $('shortToggle').innerHTML='<svg class="playerIcon" viewBox="0 0 24 24" aria-hidden="true"><rect x="3" y="4" width="18" height="16" rx="2"/><path d="m10 8 6 4-6 4Z"/></svg><span>Short</span>';
     for(const [id,path] of [['shortPrevious','m5 15 7-7 7 7'],['shortNext','m5 9 7 7 7-7']])$(id).innerHTML='<svg class="playerIcon" viewBox="0 0 24 24" aria-hidden="true"><path d="'+path+'"/></svg>';
+    $('bossButton').innerHTML=$('homeHide').innerHTML;
     $('heroPlay').innerHTML=controlIcon('play');
     $('heroPlay').setAttribute('aria-label','播放推薦影片');
     document.querySelector('.heroButtons').append(document.querySelector('.bannerIntervals'));

diff --git a/version.py b/version.py
@@ -1,1 +1,1 @@
-APP_VERSION = "1.4.1"
+APP_VERSION = "1.5.0"

diff --git a/docs/AI_CONTEXT.md b/docs/AI_CONTEXT.md
@@ -2,7 +2,7 @@
 
 ## 目前狀態
 
-- 應用程式版本以 version.py 為準，目前為1.4.1。
+- 應用程式版本以 version.py 為準，目前為1.5.0。
 - 原始碼現在位於儲存庫根目錄；不要把忽略版控的 outputs/LocalCinema 當成主要維護來源。
 - 以使用者選定的prototype為方向完成深綠前端、桌面側邊／窄版底部導覽、Banner與卡片；新增studio-layout.css與studio-navigation.js，未加入未實作的分享控件。
 - README 已含完整使用說明、兩種收集圖解、實際虛構片單截圖與標為概念圖的AI prototype。
@@ -20,8 +20,10 @@
 
 讀AGENTS、實際 owning source 與相關測試，避免重新推導錯誤假設。不要無故重寫大型index.html；視覺增量優先放既有外部樣式與導覽層。新增asset需同步HTTP白名單與封裝；版本同步頁尾及CHANGELOG。
 
-## v1.4.1
+## v1.5.0
 
 圖 3 版面：右上頭像下拉、三欄圖片內資訊、進階篩選收納、方格／列表。Short 窄幅面板，installShortStudioControls 加入收藏、標籤、時間軸；底部共用間隔控件。後台沿用安全的原生視窗及兩個分頁，更新間距與配色。未新增無作用的分享按鈕。
 
-1.4.1：播放器樣式在 studio-layout.css；390px 使用兩列工具列。cinema.show_lan 在服務啟動後為每個 LAN URL 本機產生 QR Code，僅存在 Tk image，切勿輸出真實存取碼或截取個人服務卡片。qrcode 為必要依賴，launcher preflight 與 frozen self-test 都會匯入驗證。
+1.5.0：播放器樣式在 studio-layout.css；390px 使用兩列工具列。cinema.show_lan 在服務啟動後為每個 LAN URL 本機產生 QR Code，僅存在 Tk image，切勿輸出真實存取碼或截取個人服務卡片。qrcode 為必要依賴，launcher preflight 與 frozen self-test 都會匯入驗證。
+
+1.5.0：keyframeRail 移入 seekRow，keyframeToggle 直接新增；paused && !seeking && |currentTime-position|<=0.15 才可點刪。跳轉不呼叫 play，舊 title 資料保留，無 DB 遷移。

diff --git a/README.md b/README.md
@@ -1,13 +1,13 @@
 # 映室 LocalCinema
 
-**Windows 私人影音庫｜v1.4.1**
+**Windows 私人影音庫｜v1.5.0**
 Created by Ryan Hsu. 2026 © Copyright · BitingBox Studio
 
 以暗色日系介面整理本機影片，從瀏覽器在本機或區網觀看。Windows 後台負責片源、掃描與轉檔，可縮至系統列持續運行。
 
 ## 新版實際介面
 
-![v1.4.1 桌面片庫介面](docs/images/ui-desktop.jpg)
+![v1.5.0 桌面片庫介面](docs/images/ui-desktop.jpg)
 
 以上為實際程式使用隔離、虛構片單的畫面。封面使用專案預設插畫示範，沒有讀取個人片庫。
 
@@ -20,7 +20,7 @@ Created by Ryan Hsu. 2026 © Copyright · BitingBox Studio
 
 ![LocalCinema 概念介面](docs/images/localcinema-prototype.png)
 
-AI 生成的概念插圖，全部使用虛構內容，不是實際程式截圖。v1.4.1 已將其深綠側邊導覽、Banner 與卡片風格落實到程式；未加入圖中僅作示意且尚未實作的分享等控件。完整提示詞見 docs/images/prototype-prompt.json。
+AI 生成的概念插圖，全部使用虛構內容，不是實際程式截圖。v1.5.0 已將其深綠側邊導覽、Banner 與卡片風格落實到程式；未加入圖中僅作示意且尚未實作的分享等控件。完整提示詞見 docs/images/prototype-prompt.json。
 
 </details>
 
@@ -137,7 +137,7 @@ py -3.12 -m venv .venv
 | 雙擊中央 | 全螢幕切換 |
 | 滾輪／Shift＋滾輪 | 音量／進退時間 |
 
-快捷鍵在播放器開啟且焦點不在輸入控件時使用；播放器問號可查看操作說明。關鍵幀可加入目前時間或手動指定時間與名稱，點選即可跳播，依影片與集數分開保存。
+快捷鍵在播放器開啟且焦點不在輸入控件時使用；播放器問號可查看操作說明。按書籤圖示即在目前時間加入黃色旗標，不需輸入名稱。點旗標跳轉並維持原播放／暫停狀態；暫停且停在旗標位置（±0.15 秒）時再點可刪除，依影片與集數分開保存。
 
 ### Short 捲動模式
 

diff --git a/CHANGELOG.md b/CHANGELOG.md
@@ -1,3 +1,10 @@
+# v1.5.0 · 2026-11-14
+
+- 關鍵幀改為一鍵加入時間軸黃色旗標，移除名稱／時間輸入面板。
+- 點旗標跳轉；暫停且位於旗標 ±0.15 秒內再次點擊可刪除，跳轉保持暫停狀態。
+- 保留原有關鍵幀資料及集數隔離，避免重複新增與連點寫入。
+- 播放器 Hide 補上與首頁一致的鏤空圖示。
+
 # v1.4.1 · 2026-11-14
 
 - 標籤／進階篩選點擊外側空白處收起；兩面板互斥，避免重疊。
